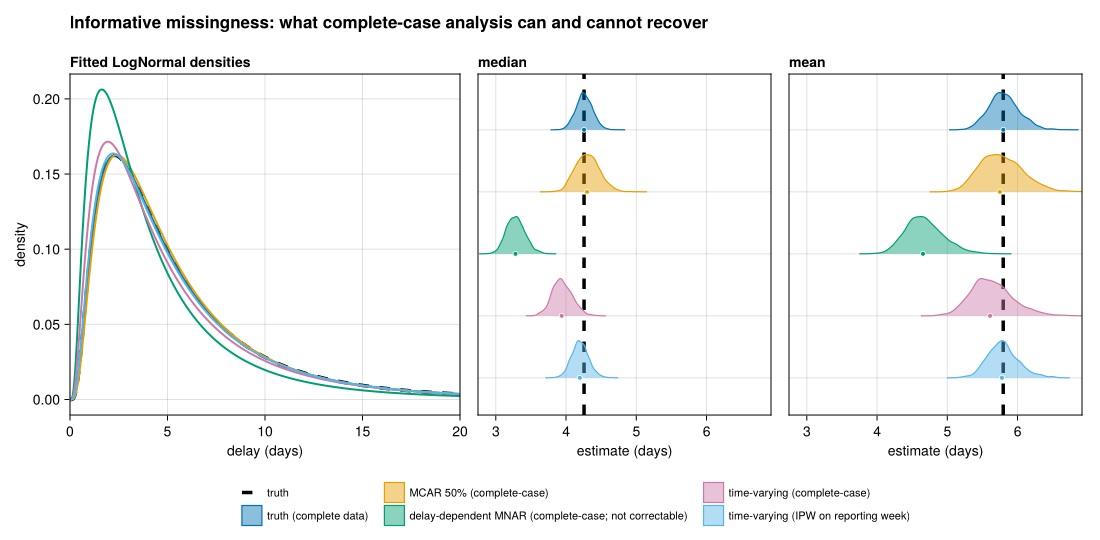
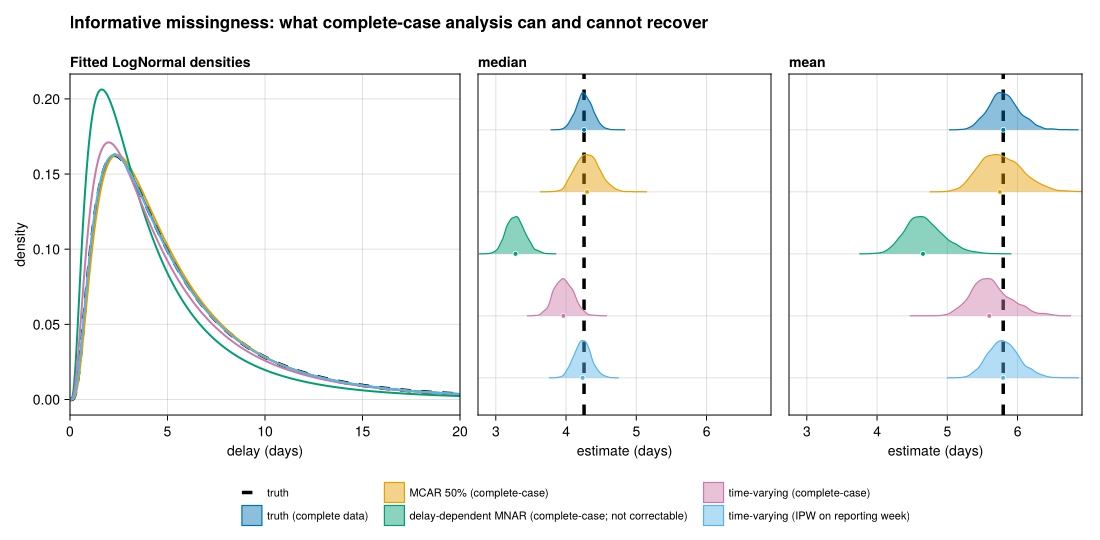
Redefined the time-varying missingness mechanism making it missing-at-random, and updated the text and references

diff --git a/Julia/issue_informative_missingness/issue_informative_missingness.md b/Julia/issue_informative_missingness/issue_informative_missingness.md
@@ -30,13 +30,13 @@ question: does the missingness depend on something we *observe*, or on
 the very quantity that is *missing*? When missingness depends only on an
 observed covariate, the sample can, in principle, be repaired by
 up-weighting the kinds of cases that were preferentially dropped
-(inverse-probability weighting). When it depends on the unobserved delay
-itself, no reweighting or censoring of the observed rows can recover
-what was removed, because the observed rows carry no information about
-the missing ones. Table 1 of the paper warns that missingness
-“introduces bias if missingness is non-random or varies over time”. The
-point of this scenario is that “non-random” hides two cases that behave
-very differently.
+(inverse-probability weighting) (Seaman and White 2013). When it depends
+on the unobserved delay itself, no reweighting or censoring of the
+observed rows can recover what was removed, because the observed rows
+carry no information about the missing ones. Table 1 of the paper warns
+that missingness “introduces bias if missingness is non-random or varies
+over time”. The point of this scenario is that “non-random” hides two
+cases that behave very differently.
 
 In this example the default analyst behaviour is to drop every row whose
 onset is missing, then fit the remaining onset-to-admission delays. The
@@ -84,13 +84,16 @@ the per-observation `weights`, not the likelihood.
     delay-dependent case.
 5.  **Time-varying missingness, corrected by inverse-probability
     weighting (IPW):** the recoverable case, because the missingness is
-    driven by calendar time, which is observed for every case through
-    the reporting date, rather than by the hidden delay. We estimate the
-    probability that an onset is recorded as a function of the reporting
-    week, then up-weight each recorded case by the inverse of that
-    probability, so the reweighted sample stands in for the full one.
-    This uses only observed quantities, with no epidemic-model
-    assumption, and returns the estimate close to the truth.
+    driven by the reporting date, which is recorded for every case,
+    rather than by the hidden delay. `pmiss_time` keys off
+    `date_reporting`, so this mechanism is MAR and the weighting is
+    consistent by construction; the only approximation left is the
+    weekly binning of that date. We estimate the probability that an
+    onset is recorded as a function of the reporting week, then
+    up-weight each recorded case by the inverse of that probability, so
+    the reweighted sample stands in for the full one. This uses only
+    observed quantities, with no epidemic-model assumption, and returns
+    the estimate close to the truth.
 
 Informative missingness is a generator-independent observation process,
 so it is shown for the DDSA pipeline only.
@@ -123,21 +126,19 @@ const N_SUB = 1000        # scaled up so each complete-case cohort stays ~500-73
 ## Helpers
 
 ``` julia
-# Normalised onset position u ∈ [0, 1] over the outbreak, and its case-weighted
-# mean, for the trend and time-varying missingness.
-function onset_positions(ll::AbstractDataFrame)
-    on = ll.date_onset
-    d0 = minimum(skipmissing(on))
-    days = Float64[Dates.value(on[i] - d0) for i in axes(ll, 1)]
+# Normalised position u ∈ [0, 1] of a date column over the outbreak, and its case-weighted mean. The delay trend keys off onset, since it models when illness began. The time-varying missingness keys off reporting, since an overwhelmed system drops the onset field as cases arrive at it; that also makes the mechanism a function of a date recorded for every case, so weighting on it is valid.
+function date_positions(dates::AbstractVector)
+    d0 = minimum(skipmissing(dates))
+    days = Float64[Dates.value(dates[i] - d0) for i in eachindex(dates)]
     span = maximum(days) - minimum(days)
     u = span > 0 ? days ./ span : fill(0.5, length(days))
     return u, mean(u)
 end
 
-# Apply a mean-preserving additive delay-time trend in place: each case's
-# onset-to-admission delay is shifted by round(slope · (u − ū)) days, so the
-# case-weighted mean shift is zero and the pooled delay distribution (the truth)
-# is unchanged, but delay now covaries with calendar time.
+onset_positions(ll::AbstractDataFrame)  = date_positions(ll.date_onset)
+report_positions(ll::AbstractDataFrame) = date_positions(ll.date_reporting)
+
+# Apply a mean-preserving additive delay-time trend in place: each case's onset-to-admission delay is shifted by round(slope · (u − ū)) days, so the case-weighted mean shift is zero and the pooled delay distribution (the truth) is unchanged, but delay now covaries with calendar time.
 function apply_mean_preserving_delay_trend!(ll::DataFrame; slope::Float64)
     u, ubar = onset_positions(ll)
     on = ll.date_onset
@@ -170,13 +171,8 @@ function complete_case_delays(ll::AbstractDataFrame, mask::AbstractVector)
     return delays
 end
 
-# Empirical inverse-probability weights for the observed (onset-recorded) cases,
-# keyed on the fully-observed reporting date. For each reporting-week bin we
-# estimate P(onset recorded | bin) = (#recorded in bin) / (#total in bin), then
-# weight each observed case by the inverse. Returns (delays, weights) aligned and
-# filtered identically. No onset information from the missing cases is used and
-# no epidemic model is assumed — only reporting dates (present for all cases) and
-# the onset-recorded indicator.
+# Empirical inverse-probability weights for the observed (onset-recorded) cases, keyed on the fully-observed reporting date.
+# For each reporting-week bin we estimate P(onset recorded | bin) = (#recorded in bin) / (#total in bin), then weight each observed case by the inverse. Returns (delays, weights) aligned and filtered identically. No onset information from the missing cases is used and no epidemic model is assumed — only reporting dates (present for all cases) and the onset-recorded indicator.
 function complete_case_ipw(ll::AbstractDataFrame, mask::AbstractVector; binwidth::Int = IPW_BINW)
     rep = ll.date_reporting; on = ll.date_onset; adm = ll.date_admission
     t0 = minimum(skipmissing(rep))
@@ -201,9 +197,7 @@ function complete_case_ipw(ll::AbstractDataFrame, mask::AbstractVector; binwidth
     return delays, w
 end
 
-# Wide censoring window for the delay-dependent MNAR check: keep the missing-onset
-# rows instead of dropping them, entering each as the broad interval [adm − 56, adm]
-# (the honest "onset sometime before admission" an analyst could assert without extra information), while recorded onsets keep pwindow = 1. Mirrors the interval-censored construction in issue_imputation.
+# Wide censoring window for the delay-dependent MNAR check: keep the missing-onset rows instead of dropping them, entering each as the broad interval [adm − 56, adm] (the honest "onset sometime before admission" an analyst could assert without extra information), while recorded onsets keep pwindow = 1. Mirrors the interval-censored construction in issue_imputation.
 function censored_window_delays(ll::AbstractDataFrame, mask::AbstractVector)
     on = ll.date_onset; adm = ll.date_admission
     min_obs_onset = minimum(on[i] for i in axes(ll, 1) if !mask[i])
@@ -262,14 +256,14 @@ println("DDSA line list: $(nrow(ll)) cases (mean-preserving delay trend applied)
 ## Build the missingness mechanisms and fit
 
 ``` julia
-u, _ = onset_positions(ll)
+r, _ = report_positions(ll)
 base_delays = Float64[Dates.value(ll.date_admission[i] - ll.date_onset[i]) for i in axes(ll, 1)]
 n = nrow(ll)
 
 # Missingness mechanisms (per-row probability the onset is NOT recorded).
 pmiss_mcar  = fill(0.5, n)
 pmiss_delay = clamp.(0.05 .+ 0.07 .* base_delays, 0.0, 0.90)    # ↑ with delay
-pmiss_time  = clamp.(0.05 .+ 0.90 .* u, 0.0, 0.97)             # ↑ over epidemic time
+pmiss_time  = clamp.(0.05 .+ 0.90 .* r, 0.0, 0.97)             # ↑ over reporting time
 
 mask_mcar  = draw_missing_mask(pmiss_mcar;  seed = SEED + 1)
 mask_delay = draw_missing_mask(pmiss_delay; seed = SEED + 2)
@@ -281,8 +275,7 @@ est_delay_cc = fit_cc(complete_case_delays(ll, mask_delay); seed = SEED + 2)
 est_time_cc  = fit_cc(complete_case_delays(ll, mask_time); seed = SEED + 3)
 est_time_ipw = fit_ipw(complete_case_ipw(ll, mask_time)...; seed = SEED + 13)
 
-# Check: can a wide censoring window on the missing rows repair the delay-dependent
-# MNAR bias? (It cannot; the window carries no information about where the onset fell.)
+# Check: can a wide censoring window on the missing rows repair the delay-dependent MNAR bias? 
 _dcw, _pwcw = censored_window_delays(ll, mask_delay)
 est_delay_censored = fit_lognormal_pcd(_dcw; pwindow = _pwcw,
     n_samples = 1000, n_chains = 2, seed = SEED + 22)
@@ -318,9 +311,9 @@ width="1100" height="540" />
 ## Results
 
 The five columns separate cleanly into the benign, the recoverable, and
-the irreparable. Against a complete-data reference near a median of 4.25
+the irreparable. Against a complete-data reference near a median of 4.26
 days, dropping half the onsets at random leaves the estimate on the
-reference (about 4.28 days). Random missingness, however extensive,
+reference (about 4.30 days). Random missingness, however extensive,
 costs precision but not accuracy. This is the sanity check that the
 complete-case estimator is unbiased when nothing links missingness to
 the delay.
@@ -346,23 +339,25 @@ here because on data generated by such a model it would risk
 demonstrating only that we can invert our own generator.
 
 The time-varying mechanism is the recoverable case, the surge in which
-an overwhelmed system stops collecting onset dates. A missingness rate
-that climbs over epidemic time, riding on the mean-preserving delay
-trend, preferentially drops the later long-delay cases and pulls the
-median down to about 3.94 days, a milder bias. Because its driver is
-calendar time, which is observed for every case through the reporting
-date, inverse-probability weighting on the reporting week returns the
-estimate to about 4.19 days, back on the reference. The weighting
-recovers the truth under the condition that, given the variable used to
-form the weights, missingness no longer depends on the delay; here the
-mechanism keys off onset time while the weights are formed on reporting
-week, which proxies it closely enough (reporting lags onset by only a
-few days) for the correction to land.
+an overwhelmed system stops collecting onset dates as cases arrive. A
+missingness rate that climbs over reporting time, riding on the
+mean-preserving delay trend, preferentially drops the later long-delay
+cases and pulls the median down to about 3.96 days. Because its driver
+is the reporting date, which is recorded for every case, rather than the
+hidden delay, inverse-probability weighting on the reporting week
+returns the estimate to about 4.24 days against a 4.26 reference. The
+weighting recovers the truth under the condition that, given the
+variable used to form the weights, missingness no longer depends on the
+delay (equation 3 of (Seaman and White 2013)), and here that condition
+holds by construction, since `pmiss_time` is a function of the reporting
+date alone. The only approximation left is the weekly binning of that
+date, which coarsens an observed covariate rather than standing in for
+an unobserved one.
 
 In sum, random missingness is harmless for the central estimate,
 missingness driven by an observed covariate can be reweighted away, and
-missingness driven by the unobserved delay itself cannot be reweighted
-away, so it must be anticipated in the line-list design.
+missingness driven by the unobserved delay itself cannot, so it must be
+anticipated in the line-list design.
 
 ## Estimates
 
@@ -382,15 +377,15 @@ away, so it must be anticipated in the line-list design.
     │   mean = (4.654424124379754, 4.212559857362097, 5.258789267446552)
     └   sd = (4.69048695295843, 3.8658163253859903, 5.989821817352334)
     ┌ Info: time-varying (complete-case)
-    │   n = 659
-    │   median = (3.9379959302703886, 3.676741344587476, 4.246449414398722)
-    │   mean = (5.609099677369662, 5.128636261429276, 6.2840808010209495)
-    └   sd = (5.6908435043973835, 4.73132928073467, 7.0913267074620485)
+    │   n = 650
+    │   median = (3.9626649433746444, 3.707595241931038, 4.246079289150043)
+    │   mean = (5.598861907465805, 5.13353470318899, 6.23409168763533)
+    └   sd = (5.581629144678659, 4.735522632164176, 6.928219837635719)
     ┌ Info: time-varying (IPW on reporting week)
-    │   n = 659
-    │   median = (4.1963744579064794, 3.972249856439499, 4.450091261149467)
-    │   mean = (5.777872427523198, 5.403196625826788, 6.2959619205778745)
-    └   sd = (5.467675947634916, 4.79258398355595, 6.482122597883543)
+    │   n = 650
+    │   median = (4.235955521910241, 4.0077405142042, 4.484411162216003)
+    │   mean = (5.794828341238615, 5.397886247610821, 6.274006749583127)
+    └   sd = (5.420180662724036, 4.736509508699261, 6.331739668765548)
     ┌ Info: delay-dependent MNAR (wide censoring window; check)
     │   n = 1000
     │   median = 3.07
@@ -421,6 +416,15 @@ Charniga, Sang Woo AND Akhmetzhanov, Kelly AND Park. 2024. “Best
 Practices for Estimating and Reporting Epidemiological Delay
 Distributions of Infectious Diseases.” *PLOS Computational Biology* 20
 (10): 1–21. <https://doi.org/10.1371/journal.pcbi.1012520>.
+
+</div>
+
+<div id="ref-seaman2013ipw" class="csl-entry">
+
+Seaman, Shaun R., and Ian R. White. 2013. “Review of Inverse Probability
+Weighting for Dealing with Missing Data.” *Statistical Methods in
+Medical Research* 22 (3): 278–95.
+<https://doi.org/10.1177/0962280210395740>.
 
 </div>
 

diff --git a/Julia/issue_imputation/issue_imputation.md b/Julia/issue_imputation/issue_imputation.md
@@ -374,10 +374,10 @@ Subtracting the mean onset-to-report delay before imputation removes
 almost all of the location bias (median $\approx 4.5$ days in both
 pipelines), confirming that the initial bias stemmed from where the
 guess was placed, not from imputing at all. It does not, however,
-recover the true spread of the delay distribution. Because it fixes each
-missing onset to `date_reporting − mean_delay`, the imputed delays
-inherit the variance of the admission-to-report gap rather than the true
-onset-to-admission variance, so the fitted distribution is mildly
+recover the clean-data spread of the delay distribution. Because it
+fixes each missing onset to `date_reporting − mean_delay`, the imputed
+delays inherit the variance of the admission-to-report gap rather than
+the true onset-to-admission variance, so the fitted distribution is
 over-dispersed rather than too narrow (sd $\approx 3.4$ in DDSA and
 $3.1$ in `simulist`, against a clean-data $2.7$–$2.8$). The plain
 date-of-report imputation distorts the spread more severely (sd
@@ -385,13 +385,14 @@ $\approx 4.5$–$4.8$ days), on top of its location bias. The
 interval-censored model is the only approach that recovers both
 quantities: it keeps the central estimate close to the clean-data
 reference (median about 4.3 days in DDSA, 4.5 in `simulist`) and returns
-the true spread (sd $\approx 2.4$–$2.5$ days, within \$\$10% of truth).
-That is exactly the right behaviour under MCAR: the missingness biases
-neither the location nor the spread, so both are recovered, while the
-per-record onset uncertainty is carried through the widened `pwindow`
-rather than being discarded by committing to a single imputed date. When
-missingness is instead informative, imputation and censoring behave very
-differently (see issue_informative_missingness).
+the spread to near its clean-data value (sd $\approx 2.4$–$2.5$ days
+against a clean-data $2.7$–$2.8$, and $2.61$ against $2.69$ across the
+DDSA replications). That is exactly the right behaviour under MCAR: the
+missingness biases neither the location nor the spread, so both are
+recovered, while the per-record onset uncertainty is carried through the
+widened `pwindow` rather than being discarded by committing to a single
+imputed date. When missingness is instead informative, imputation and
+censoring behave very differently (see issue_informative_missingness).
 
 ## Estimates
 